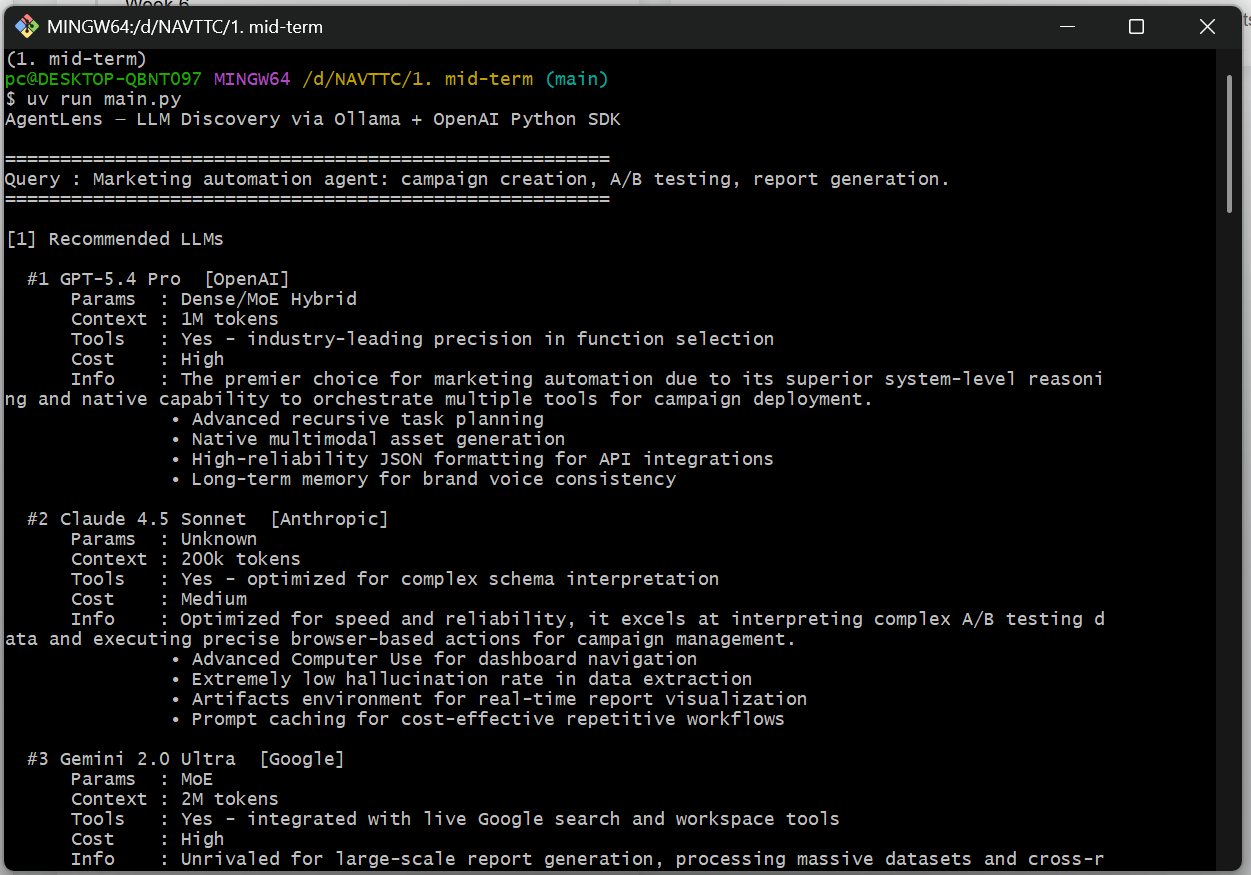
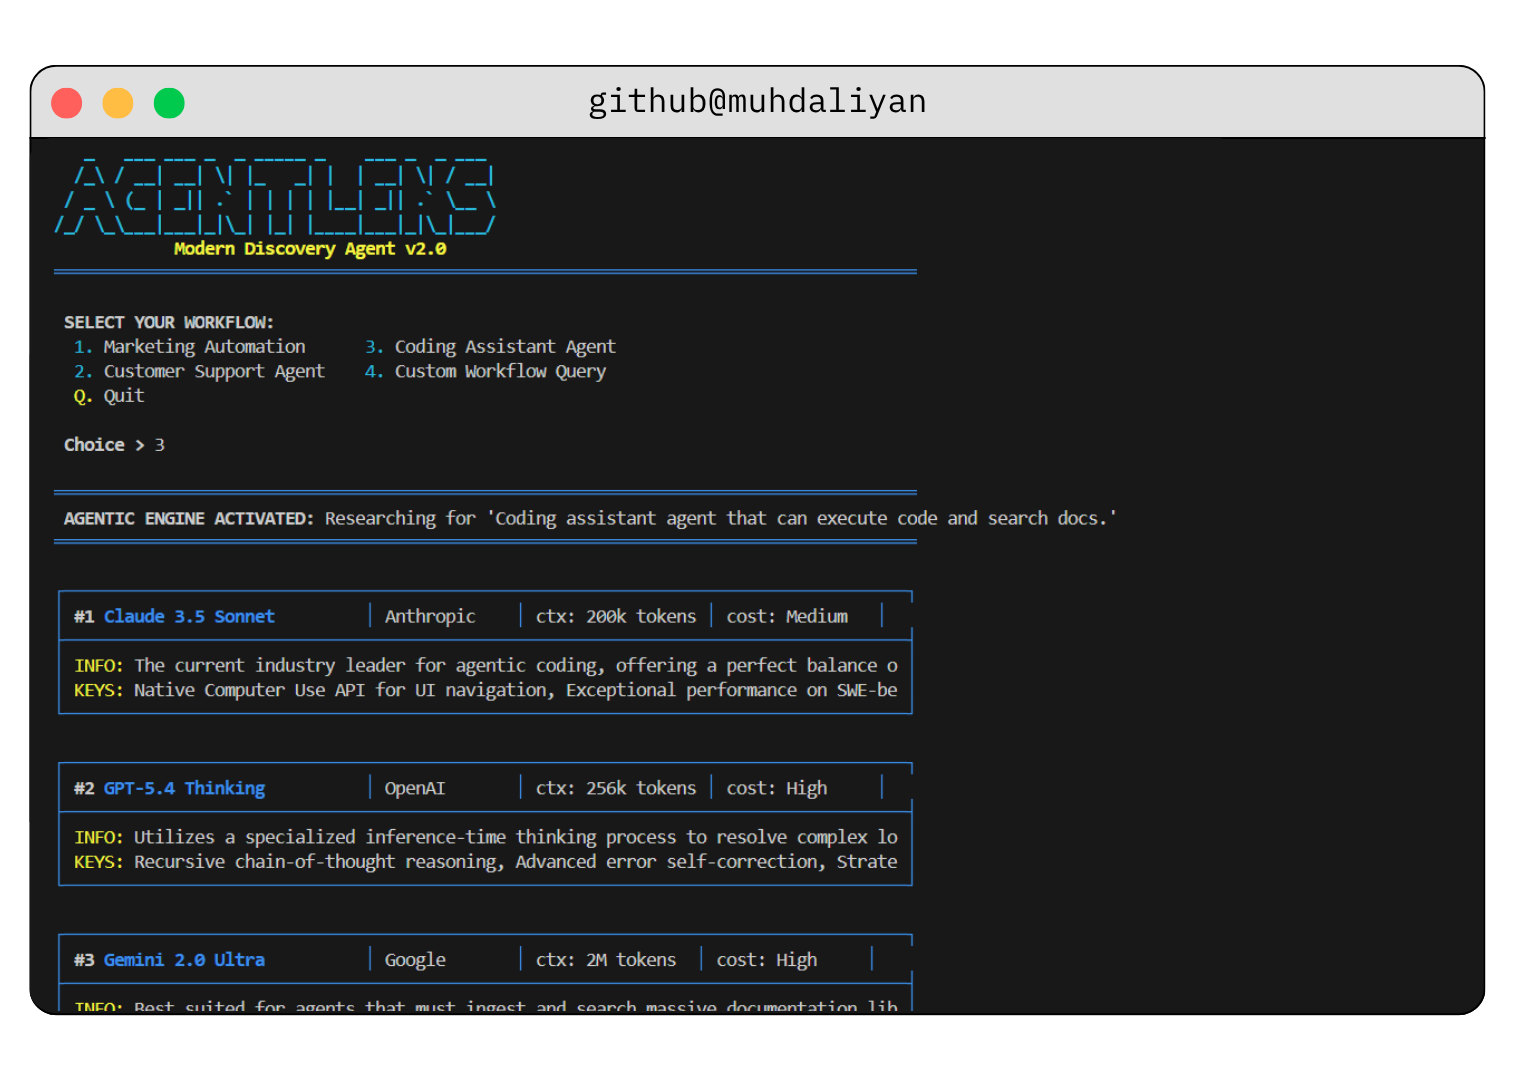
refactor: overhaul AgentLens CLI with interactive menu, formatted model tables, and optimized tool-calling logic

diff --git a/agent_core.py b/agent_core.py
@@ -1,130 +1,110 @@
 """
 agent_core.py
-OpenAI Python SDK pointed at Ollama — no API key needed.
-Model: gemini-3-flash-preview:cloud
+Unified Agentic Core for AgentLens.
 """
 
 import json
 import re
 from openai import OpenAI
-from config import OLLAMA_BASE_URL, OLLAMA_MODEL, SYSTEM_PROMPT
 
 try:
     from ddgs import DDGS
 except ImportError:
     DDGS = None
 
+from config import OLLAMA_BASE_URL, OLLAMA_MODEL, SYSTEM_PROMPT
 
-def _client() -> OpenAI:
-    return OpenAI(
-        api_key="ollama",                      # required by SDK but ignored by Ollama
-        base_url=f"{OLLAMA_BASE_URL}/v1",      # Ollama OpenAI-compatible endpoint
-    )
+
+# Single client instance for performance
+client = OpenAI(api_key="ollama", base_url=f"{OLLAMA_BASE_URL}/v1")
+
+# Static tool definition
+TOOLS = [{
+    "type": "function",
+    "function": {
+        "name": "web_search",
+        "description": "Searches for latest LLMs and benchmarks (2026).",
+        "parameters": {
+            "type": "object",
+            "properties": {
+                "query": {"type": "string", "description": "Search query"}
+            },
+            "required": ["query"]
+        }
+    }
+}]
 
 
 def web_search(query: str) -> str:
-    """Search the web for the latest AI models and agents."""
+    """Performs a web search via DuckDuckGo."""
     if not DDGS:
-        return "Search tool not installed. Run 'uv add duckduckgo-search'."
+        return "Search tool (duckduckgo-search) not installed."
     
-    # We refine the search to focus on latest LLMs and benchmarks
-    refined_query = f"latest LLMs for {query} 2024 2025 reddit benchmarks"
     try:
         with DDGS() as ddgs:
-            results = ddgs.text(refined_query, max_results=5)
+            results = list(ddgs.text(f"latest LLMs {query} 2026 benchmarks", max_results=5))
             if not results:
-                return "No search results found."
-            
-            formatted = "\n\n".join([
-                f"Title: {r.get('title')}\nSnippet: {r.get('body')}\nLink: {r.get('href')}"
-                for r in results
-            ])
-            return formatted
+                return "No results found."
+            return "\n\n".join([f"Title: {r['title']}\nSnippet: {r['body']}" for r in results])
     except Exception as e:
-        return f"Search failed: {str(e)}"
+        return f"Search error: {e}"
 
 
 def search_llms(query: str) -> list[dict]:
-    """Agent that can choose to search the web if it needs up-to-date recommendations."""
-    client = _client()
-
-    # 1. Define the tool for the API
-    tools = [{
-        "type": "function",
-        "function": {
-            "name": "web_search",
-            "description": "Searches the web for latest LLMs and benchmarks (April 2026).",
-            "parameters": {
-                "type": "object",
-                "properties": {
-                    "query": {"type": "string", "description": "The search query (e.g., 'latest LLMs for coding')"}
-                },
-                "required": ["query"]
-            }
-        }
-    }]
-
+    """Agentic workflow: Decides if it needs to search, then returns ranked models."""
     messages = [
         {"role": "system", "content": SYSTEM_PROMPT},
         {"role": "user", "content": f"Agentic workflow: {query}"}
     ]
 
-    # 2. First call: The model decides if it needs a tool
+    # Initial decision
     response = client.chat.completions.create(
         model=OLLAMA_MODEL,
         messages=messages,
-        tools=tools,
-        tool_choice="auto",
+        tools=TOOLS,
     )
 
-    message = response.choices[0].message
+    msg = response.choices[0].message
+    if not msg.tool_calls:
+        return _parse_json(msg.content)
 
-    # 3. Handle Tool Calls (The Agentic Loop)
-    if message.tool_calls:
-        print(f"[AgentLens] Agent decided it needs the web! Calling search tool...")
-        messages.append(message)  # Add model's request to the thread
+    # Handle Tool Calls
+    print(f"[AgentLens] Running search for: {query}...")
+    messages.append(msg)
 
-        for tool_call in message.tool_calls:
-            if tool_call.function.name == "web_search":
-                # Parse arguments and call our search function
-                args = json.loads(tool_call.function.arguments)
-                search_data = web_search(args["query"])
-                
-                # Append tool result to thread
-                messages.append({
-                    "role": "tool",
-                    "tool_call_id": tool_call.id,
-                    "name": "web_search",
-                    "content": search_data
-                })
+    for tool in msg.tool_calls:
+        if tool.function.name == "web_search":
+            args = json.loads(tool.function.arguments)
+            result = web_search(args.get("query", query))
+            messages.append({
+                "role": "tool",
+                "tool_call_id": tool.id,
+                "name": "web_search",
+                "content": result
+            })
 
-        # 4. Final call: Send tool results back to the LLM
-        response = client.chat.completions.create(
-            model=OLLAMA_MODEL,
-            messages=messages,
-        )
-
-    # Return the final results (JSON parsed)
-    text = response.choices[0].message.content
-    return _parse_json(text)
+    # Final completion with tool results
+    final_resp = client.chat.completions.create(model=OLLAMA_MODEL, messages=messages)
+    return _parse_json(final_resp.choices[0].message.content)
 
 
 def list_ollama_models() -> list[str]:
-    """List all models installed in Ollama."""
+    """Retrieves list of all local Ollama models."""
     try:
-        return [m.id for m in _client().models.list().data]
+        return [m.id for m in client.models.list().data]
     except Exception as e:
         print(f"[Ollama] {e}")
         return []
 
 
 def _parse_json(text: str) -> list[dict]:
-    cleaned = re.sub(r"```(?:json)?", "", text).strip().rstrip("`").strip()
-    s, e = cleaned.find("["), cleaned.rfind("]")
-    if s == -1 or e == -1:
-        return []
+    """Robust extractor for JSON lists wrapped in markdown."""
+    if not text: return []
+    # Strip markdown and isolate potential JSON block
+    match = re.search(r"(\[.*\])", text, re.DOTALL)
+    if not match: return []
     try:
-        result = json.loads(cleaned[s:e+1])
-        return result if isinstance(result, list) else []
+        return json.loads(match.group(1))
     except json.JSONDecodeError:
         return []
+

diff --git a/main.py b/main.py
@@ -1,49 +1,105 @@
 """
-main.py — AgentLens CLI
+AgentLens CLI — Professional Discovery Tool
 """
 
+import sys
+import os
 from agent_core import search_llms, list_ollama_models
 from config import OLLAMA_MODEL
 
-DIV = "=" * 55
+# ANSI Color Codes for "OG" look
+BLUE = "\033[94m"
+CYAN = "\033[96m"
+GREEN = "\033[92m"
+YELLOW = "\033[93m"
+BOLD = "\033[1m"
+RESET = "\033[0m"
 
-QUERIES = [
-    "Marketing automation agent: campaign creation, A/B testing, report generation.",
-    "Customer support agent with tool calling and long context.",
-    "Coding assistant agent that can execute code and search docs.",
-]
+W = 86  # Standard terminal width for tables
 
+QUERIES = {
+    "1": "Marketing automation agent: campaign creation, A/B testing, report generation.",
+    "2": "Customer support agent with tool calling and long context.",
+    "3": "Coding assistant agent that can execute code and search docs.",
+}
 
-def run(query: str):
-    print(f"\n{DIV}")
-    print(f"Query : {query}")
-    print(DIV)
+def print_banner():
+    print(f"{CYAN}{BOLD}")
+    print("   _   ___ ___ _  _ _____ _    ___ _  _ ___ ")
+    print("  /_\ / __| __| \| |_   _| |  | __| \| / __|")
+    print(" / _ \ (_ | _|| .` | | | | |__| _|| .` \__ \\")
+    print("/_/ \_\___|___|_|\_| |_| |____|___|_|\_|___/")
+    print(f"            {YELLOW}Modern Discovery Agent v2.0{RESET}")
+    print(f"{BLUE}{'═' * W}{RESET}")
 
-    try:
-        models = search_llms(query)
-    except Exception as e:
-        print(f"[Error] {e}")
-        return
+def print_model_table(i, m):
+    # Header / Row 1
+    name     = m.get('name', 'N/A')
+    provider = m.get('provider', 'N/A')
+    context  = m.get('context_window', 'N/A')
+    cost     = m.get('cost_tier', 'N/A')
 
-    print("\n[1] Recommended LLMs\n")
-    for i, m in enumerate(models, 1):
-        print(f"  #{i} {m.get('name')}  [{m.get('provider')}]")
-        print(f"      Params  : {m.get('parameters', 'N/A')}")
-        print(f"      Context : {m.get('context_window', 'N/A')}")
-        print(f"      Tools   : {m.get('tool_calling', 'N/A')}")
-        print(f"      Cost    : {m.get('cost_tier', 'N/A')}")
-        print(f"      Info    : {m.get('description', '')}")
-        for f in m.get("key_features", []):
-            print(f"               • {f}")
-        print()
+    # Row 1 columns formatting
+    border = f"{BLUE}│{RESET}"
+    meta = f"{provider:<12} {border} ctx: {context:<10} {border} cost: {cost:<8}"
+    
+    print(f"{BLUE}┌{'─' * (W-2)}┐{RESET}")
+    print(f"{border} {BOLD}#{i}{RESET} {BOLD}{BLUE}{name:<25}{RESET} {border} {meta} {border}")
+    
+    # Divider
+    print(f"{BLUE}├{'─' * (W-2)}┤{RESET}")
+    
+    # Row 2: Description
+    desc = m.get('description', 'No details provided.')
+    print(f"{border} {YELLOW}INFO:{RESET} {desc[:W-10]:<{W-10}} {border}")
+    
+    # Key Features
+    features = ", ".join(m.get("key_features", []))
+    print(f"{border} {YELLOW}KEYS:{RESET} {features[:W-10]:<{W-10}} {border}")
+    
+    print(f"{BLUE}└{'─' * (W-2)}┘{RESET}\n")
 
-    print("[2] All Ollama Models on this machine:\n")
-    for name in list_ollama_models():
-        tag = " ◄ active" if name == OLLAMA_MODEL else ""
-        print(f"  • {name}{tag}")
+def main():
+    print_banner()
+    while True:
+        print(f"\n {BOLD}SELECT YOUR WORKFLOW:{RESET}")
+        print(f"  {CYAN}1.{RESET} Marketing Automation      {CYAN}3.{RESET} Coding Assistant Agent")
+        print(f"  {CYAN}2.{RESET} Customer Support Agent    {CYAN}4.{RESET} Custom Workflow Query")
+        print(f"  {RED if 'RED' in globals() else YELLOW}Q.{RESET} Quit\n")
 
+        choice = input(f" {BOLD}Choice > {RESET}").strip().lower()
+        if choice in ['q', 'exit', 'quit']: break
+
+        if choice in QUERIES:
+            query = QUERIES[choice]
+        elif choice == '4':
+            query = input(f"\n {BOLD}Describe your workflow: {RESET}")
+            if not query: continue
+        else:
+            print(f"\n {YELLOW}Invalid choice, try again.{RESET}")
+            input(" Press Enter to continue...")
+            continue
+
+        print(f"\n{BLUE}{'═' * W}{RESET}")
+        print(f" {BOLD}AGENTIC ENGINE ACTIVATED:{RESET} Researching for '{query}'")
+        print(f"{BLUE}{'═' * W}{RESET}\n")
+
+        try:
+            models = search_llms(query)
+            if not models:
+                print(f" {YELLOW}[!] No models found or parsing error occurred.{RESET}")
+            else:
+                for idx, model in enumerate(models, 1):
+                    print_model_table(idx, model)
+        except Exception as e:
+            print(f" {RED if 'RED' in globals() else YELLOW}[ERROR] {e}{RESET}")
+
+        print(f"\n {BOLD}[LOCALS]{RESET} Current Ollama models on this machine:")
+        for name in list_ollama_models():
+            tag = f" {GREEN}◄ ACTIVE{RESET}" if name == OLLAMA_MODEL else ""
+            print(f"   • {name}{tag}")
+            
+    print(f"\n {BOLD}Shutting down AgentLens...{RESET}")
 
 if __name__ == "__main__":
-    print("AgentLens — LLM Discovery via Ollama + OpenAI Python SDK")
-    for q in QUERIES:
-        run(q)
+    main()
